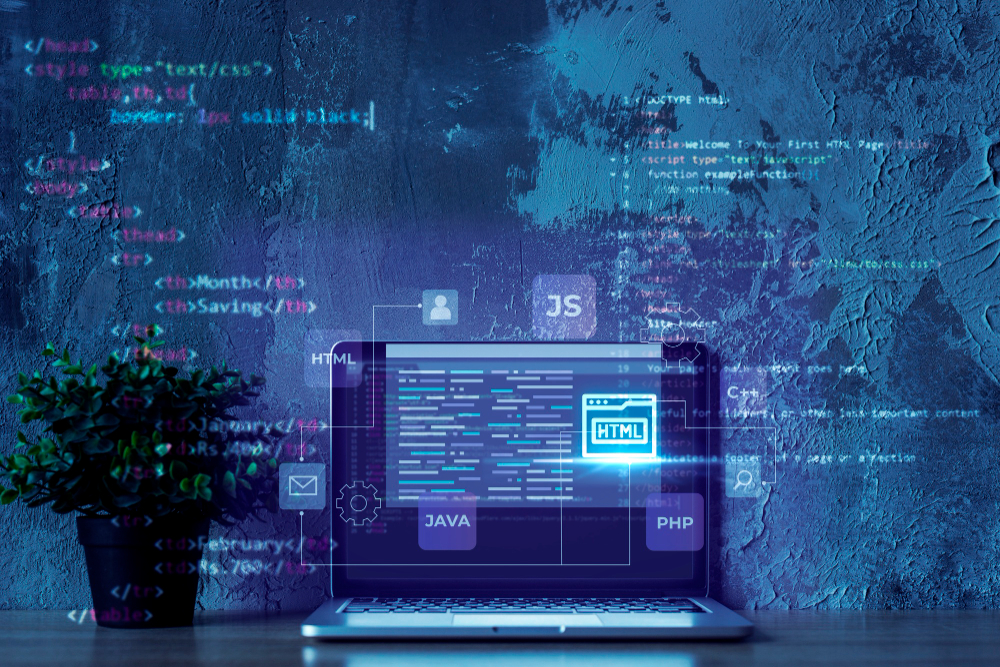
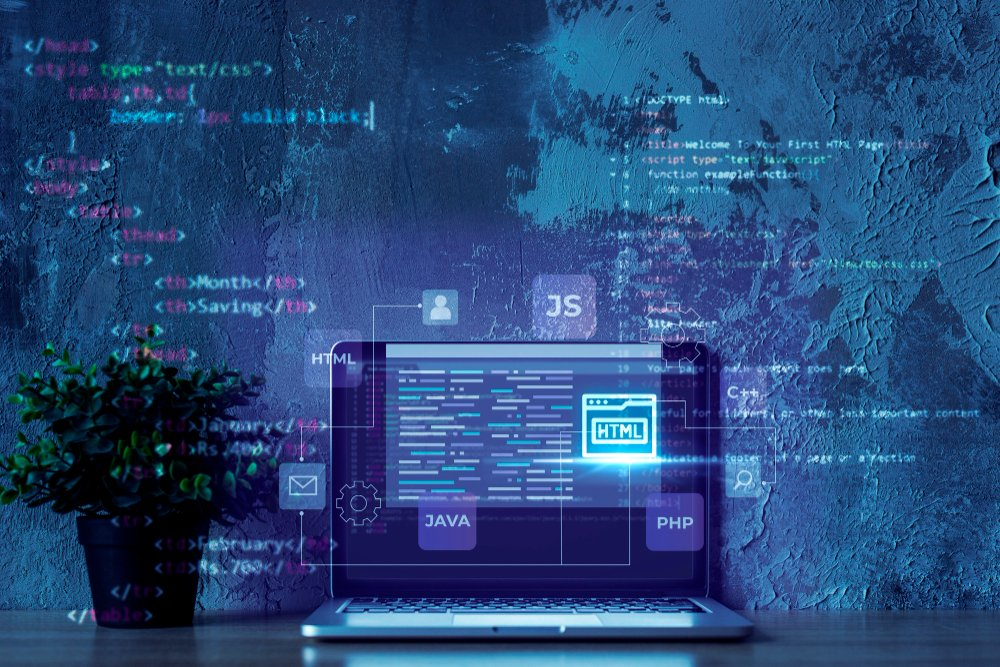
se realizan ajustes de imagenes para mejor UX

diff --git a/src/components/Carousel.jsx b/src/components/Carousel.jsx
@@ -9,8 +9,8 @@ import aws from "/assets/aws.png";
 import backend from "/assets/backend.png";
 import fullstack from "/assets/fullstack.png";
 import java from "/assets/java.png";
-import linux from "/assets/linux.png";
-import javascript from "/assets/javascript.png";
+import linux from "/assets/linux.webp";
+import javascript from "/assets/javascript.webp";
 
 export default function Carousel() {
   const slides = [aws, backend, fullstack, java, linux, javascript];
